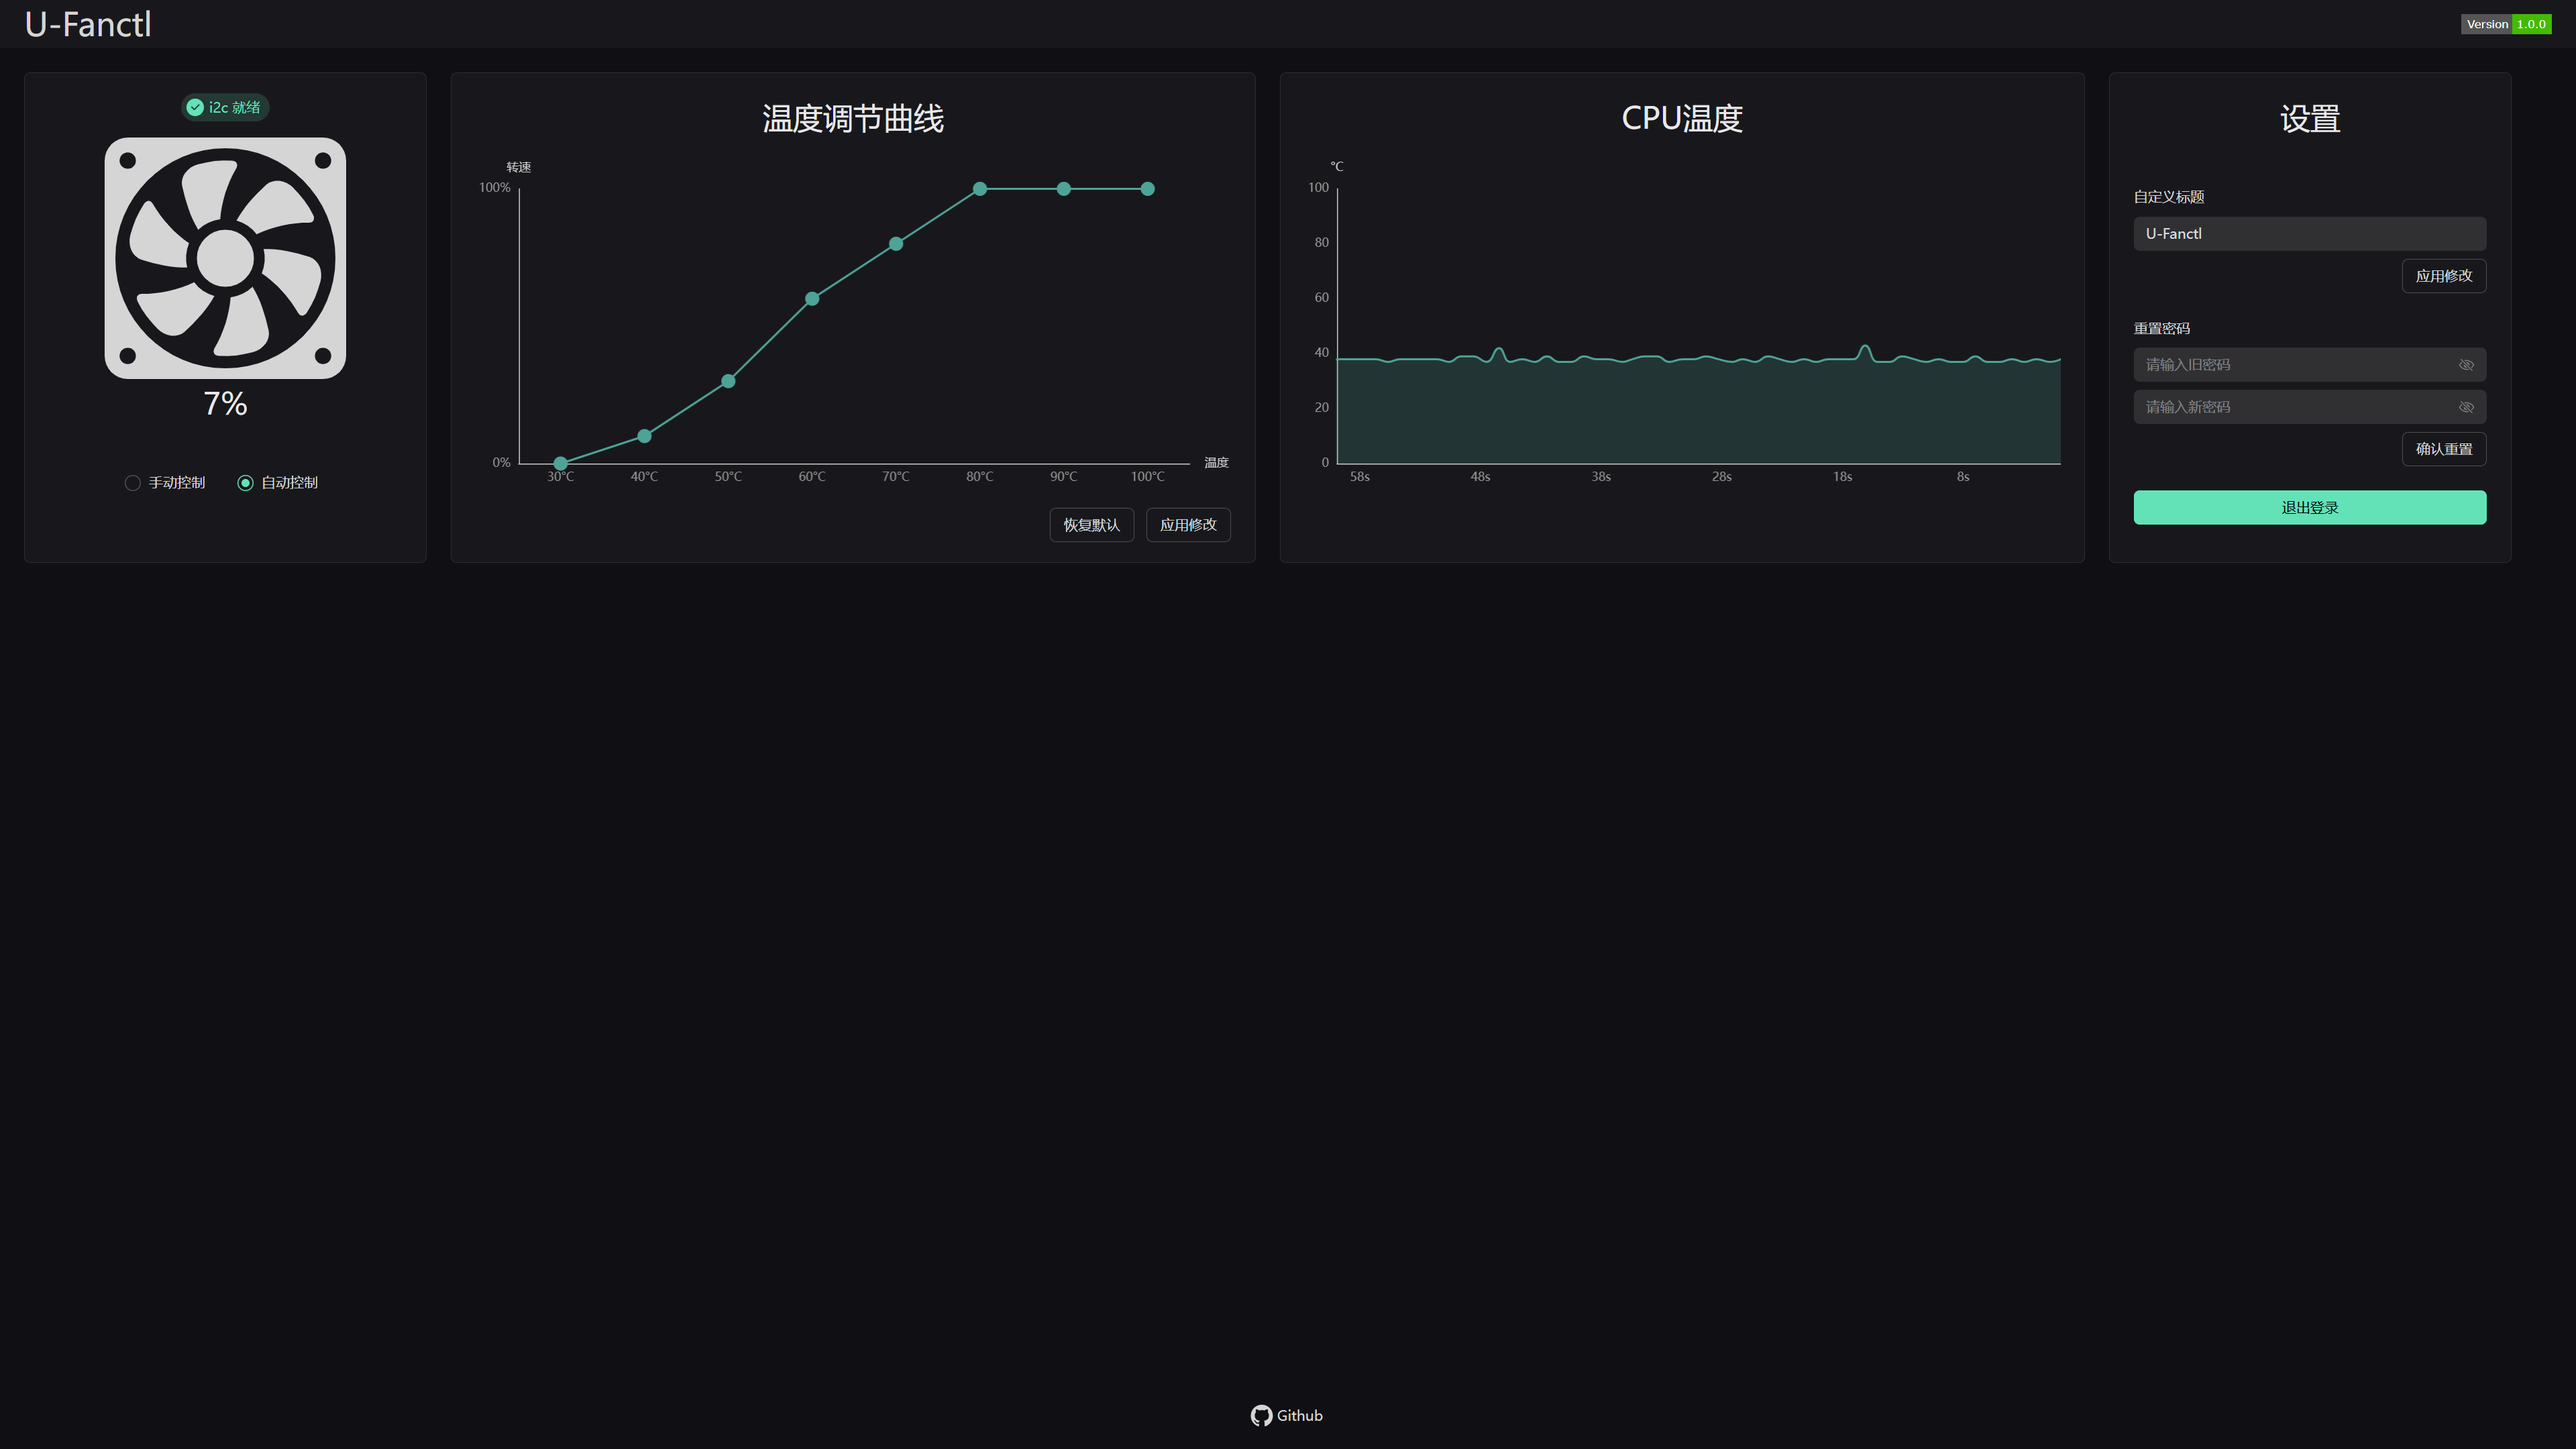
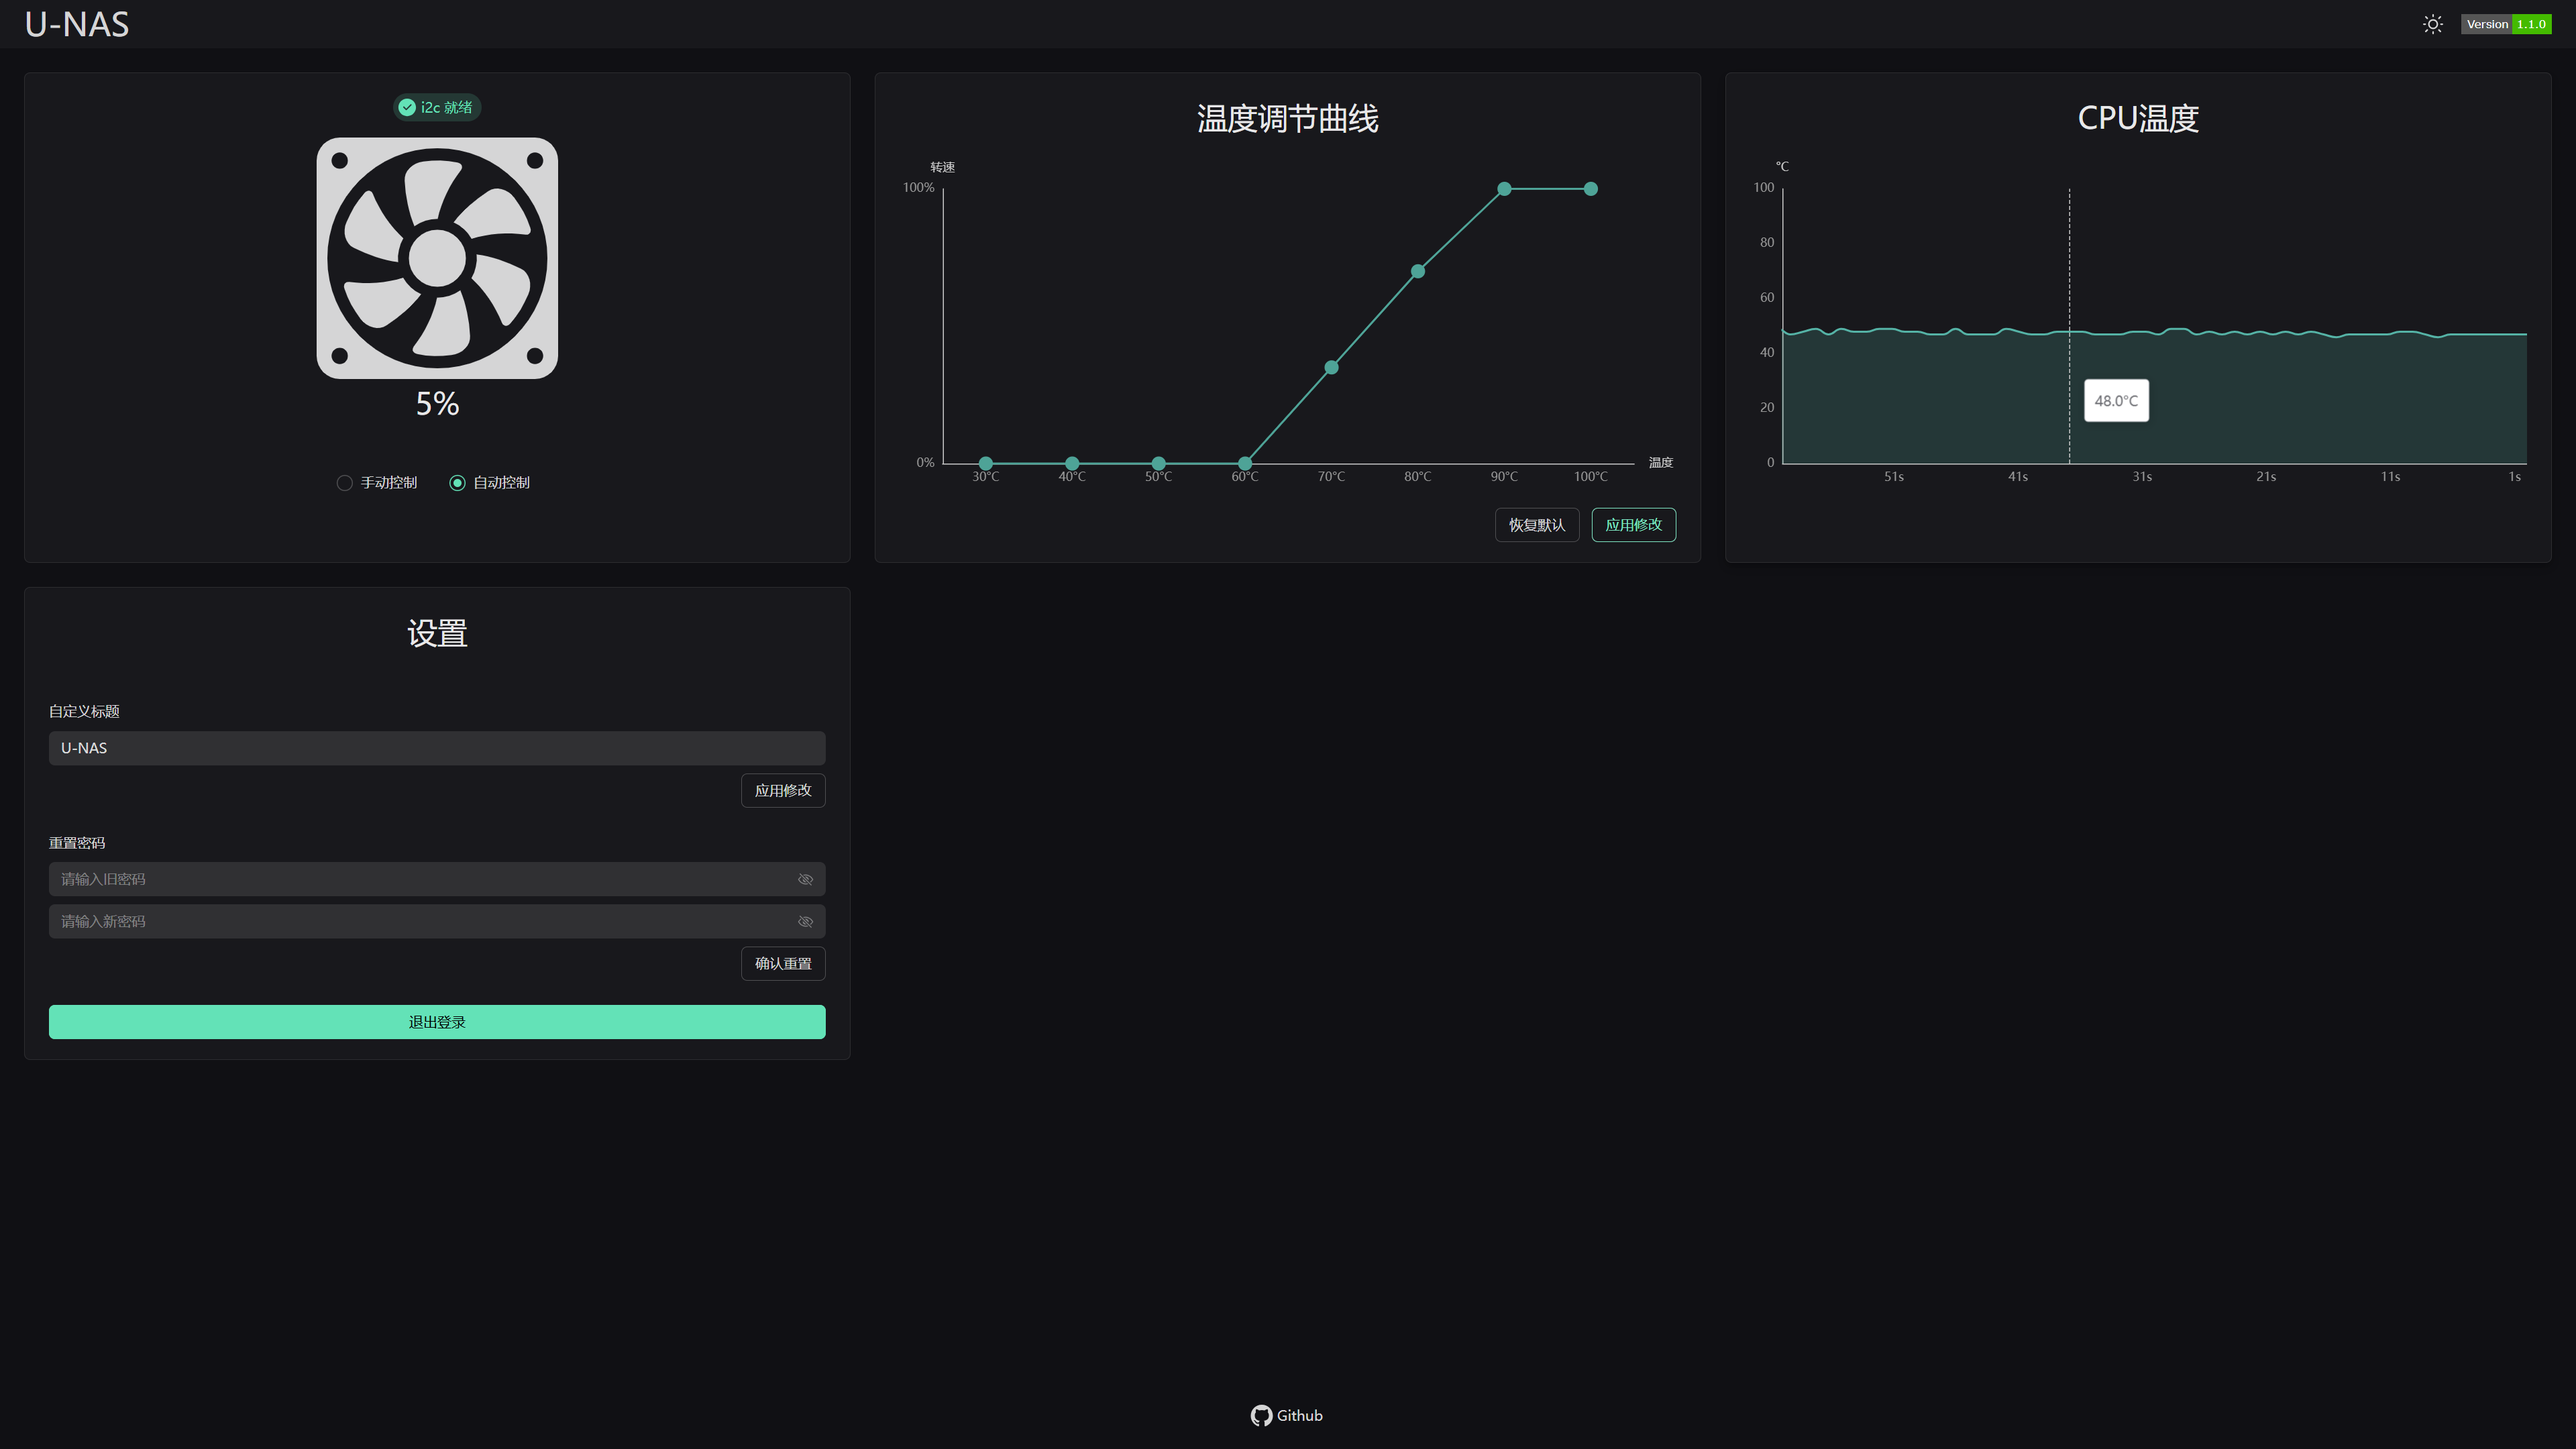
chore: release version 1.1.0

diff --git a/U-Fanctl/main.py b/U-Fanctl/main.py
@@ -36,7 +36,7 @@ if __name__ == "__main__":
         # 启动软件时满速启动风扇一次，避免堵转。
         set_speed(100)
         if config.get("control.manual"):
-            time.sleep(1)
+            time.sleep(2)
             set_speed(config.get("control.manual_speed"))
         scheduler.add_job(regulate_fan_speed, "interval", seconds=1)
 

diff --git a/README.md b/README.md
@@ -1,16 +1,36 @@
-# U-Fanctl 万由NAS风扇控制
-![技术栈](https://img.shields.io/badge/%E5%89%8D%E7%AB%AF-Python_+_Vue3_+_Vite-brightgreen?style=flat-square)
-![开发工具](https://img.shields.io/badge/%E5%BC%80%E5%8F%91%E5%B7%A5%E5%85%B7-WebStorm_+_Pycharm-blue?style=flat-square)
+# U-Fanctl 万由U-NAS风扇控制软件
+![技术栈](https://img.shields.io/badge/%E6%8A%80%E6%9C%AF%E6%A0%88-Python_+_Vue3_+_Vite-brightgreen?style=flat-square)
+![开发工具](https://img.shields.io/badge/%E5%BC%80%E5%8F%91%E5%B7%A5%E5%85%B7-WebStorm_+_PyCharm-blue?style=flat-square)
 ![许可证](https://img.shields.io/github/license/antonkomarev/github-profile-views-counter.svg?style=flat-square)
 
 ## 项目简介
-这是一款为万由NAS（HS-201P）开发的风扇控制软件。众所周知，HS-201P自带的风扇满速运行时噪音较大，安装其他NAS系统后会默认满速运行。使用该软件后，可以手动设置温度曲线，实现自动调节风扇转速。
+这是一款为万由U-NAS（HS-201P）开发的、适配飞牛FnOS的风扇控制软件。众所周知，HS-201P自带的风扇满速运行时噪音较大，安装其他NAS系统后会默认满速运行。使用该软件后，可以手动设置温度曲线，实现自动调节风扇转速。
 
 ## 软件界面
 ![ControlView](https://github.com/Mrkinte/U-Fanctl/blob/main/Docs/ControlView.png?raw=true)
 
+## 使用方法
+- 下载 [u-fanctl.fpk](https://github.com/Mrkinte/U-Fanctl/releases/latest)
+
+- 打开飞牛OS的 ```应用中心``` -> ```手动安装``` (位于左下角),根据提示信息进行安装即可。
+
 ## 注意事项
 - 默认密码：admin
+
 - 默认端口：3233
-- 通过i2c总线控制风扇，需要sudo权限。
+
 - 适用于HS-201P
+
+- 通过i2c总线控制风扇，需要root权限。如果显示i2c未就绪，请检查系统是否正确加载了该模块。
+
+- 仅适用基于Linux的NAS系统，目前也仅提供Fnos的安装包.fpk，其他NAS系统请自行打包。
+
+## 项目结构
+
+- ```Fpk/``` .fpk打包相关文件，详情请查阅 [飞牛官方文档](https://developer.fnnas.com/docs/guide)。
+
+- ```U-Fanctl/``` 后端代码，用于风扇控制、提供网页服务。
+
+- ```WebUI/``` 前端代码，编译后的文件保存在U-Fanctl/wwwroot目录下。
+
+- ```BuildScript.sh``` 自动化构建脚本，一键编译.fpk安装包（前提是环境正确搭建）。
